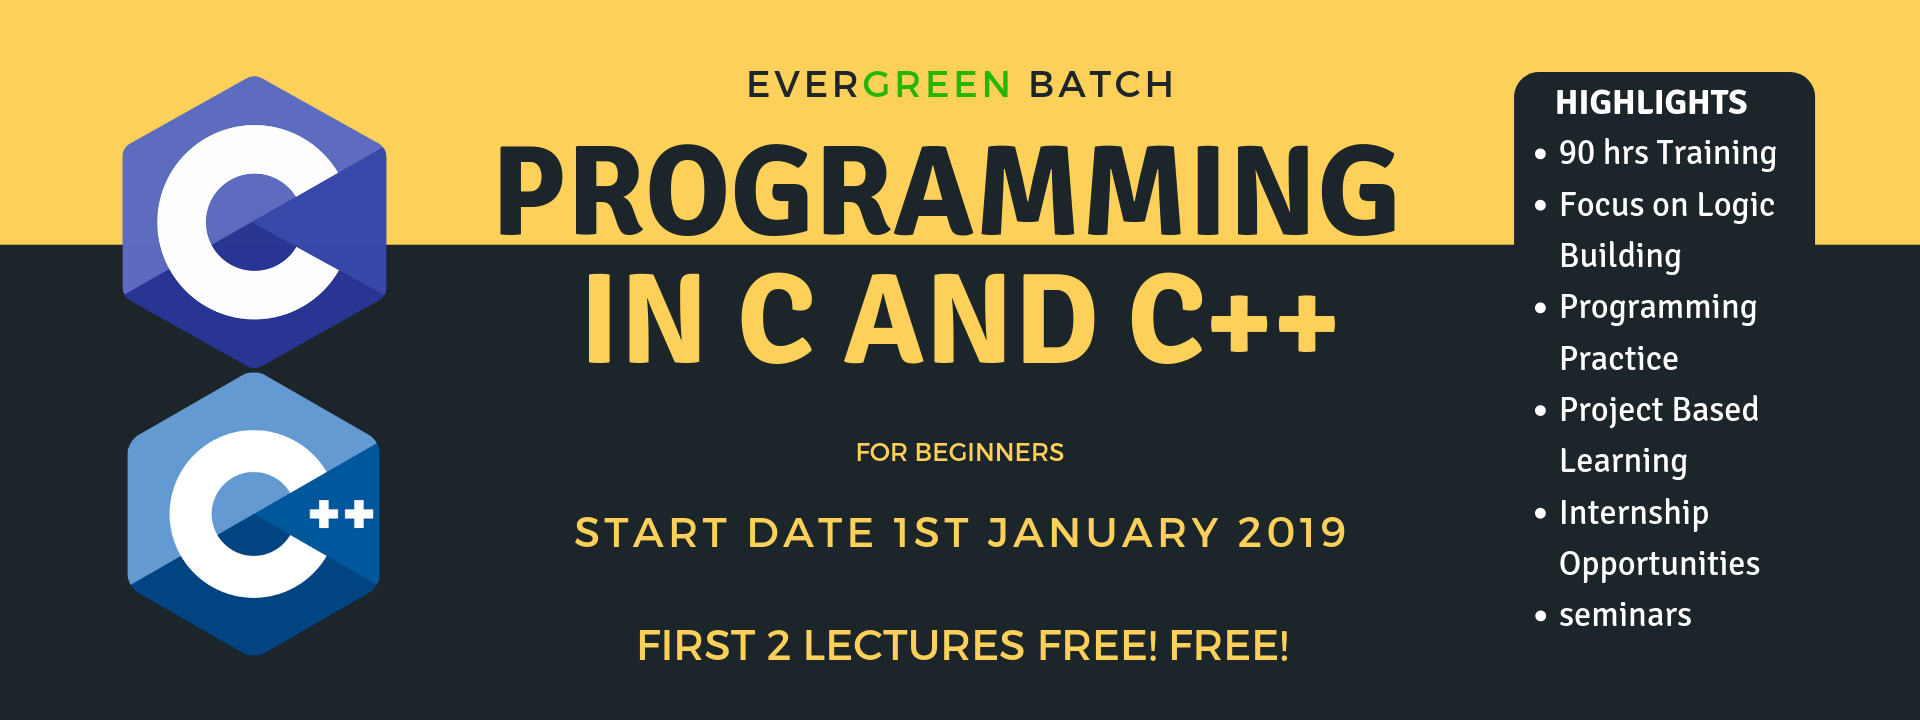
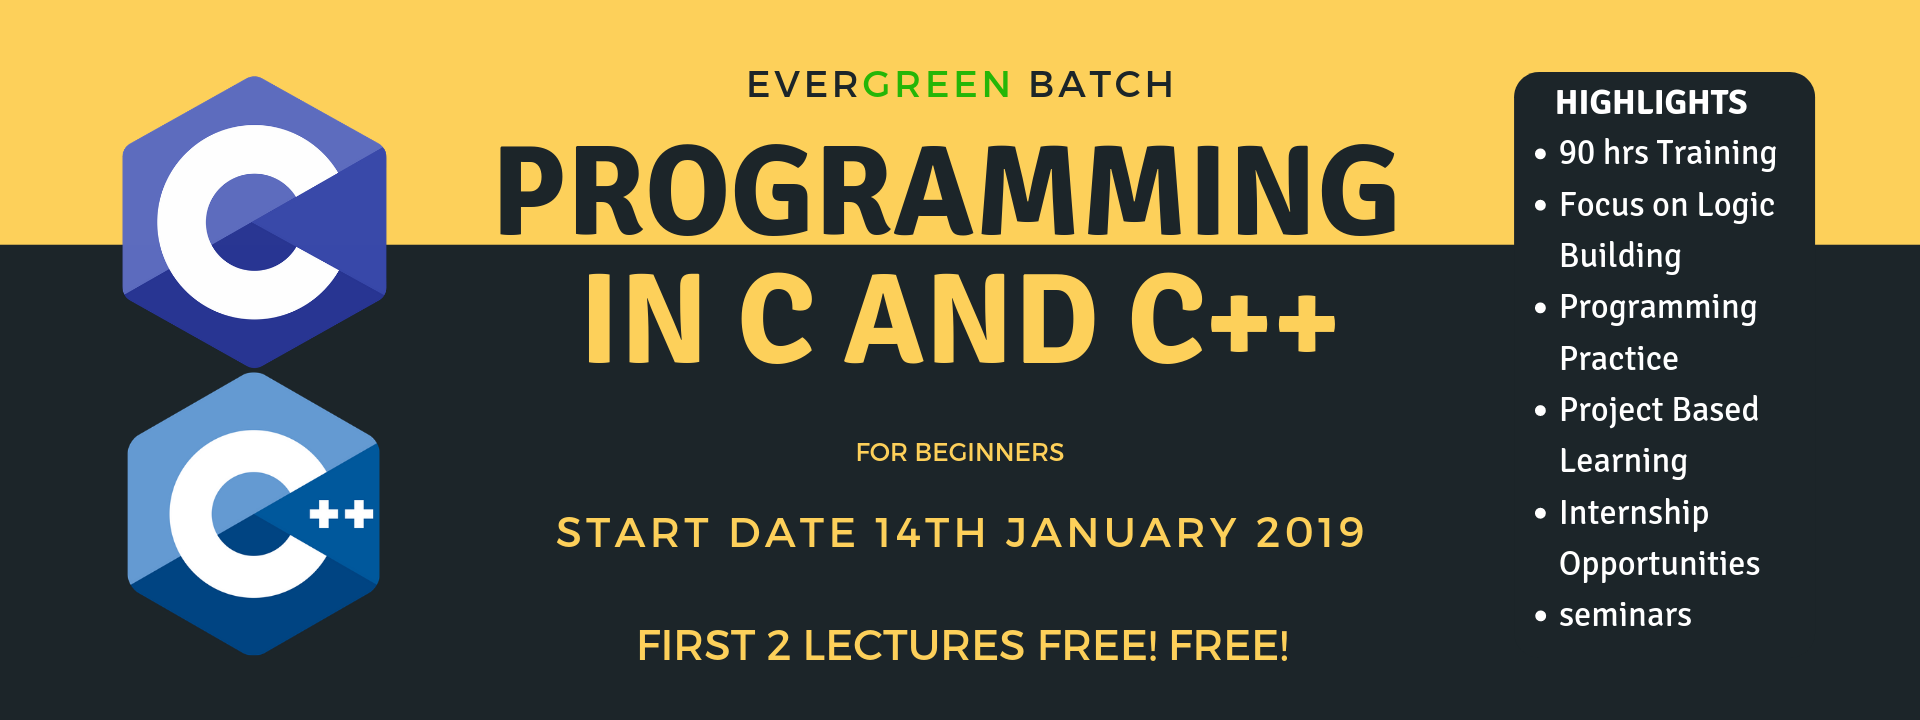
final edit

Changed region(s): [[0.2812, 0.7028, 0.7188, 0.7639]]

diff --git a/home/templates/home/index.html b/home/templates/home/index.html
@@ -23,7 +23,7 @@
     </div>
 </div>
 <div  class="announcement-line" id="announcementLine">
-    <marquee  direction="left" id="announcementLinetext"> Free seminar for third year students On campus placement preparation on 13th January 2019 (sunday)   |  New batch of Master Java starting from 1st January 2018  |  New batch of programming in C starting from 1st January 2018  </marquee>
+    <marquee  direction="left" id="announcementLinetext"> Free seminars for third year students On campus placement preparation in First week of January 2019 (Contact for more details)  |  New batch of Master Java starting from 14 January 2019  |  New batch of programming in C starting from 14 January 2019  </marquee>
 </div>
 
 <div class="students_watching">
@@ -63,13 +63,13 @@
             <div class="col-md-3">
                 <div data-scroll-reveal="enter from the bottom after 0.2s" class="jumbotron">
                   <h3 class="">PLACEMENT FOR SURE SYLLABUS</h3>
-                  <p><a class="btn  btn-lg" href="{%url 'home:lbwithcpp'%}" role="button">Download Now</a></p>
+                  <p><a class="btn  btn-lg" href="https://www.visionware.in/media/placement4sure.pdf" role="button">Download Now</a></p>
                 </div>
             </div>
             <div class="col-md-3">
                 <div data-scroll-reveal="enter from the bottom after 0.2s" class="jumbotron">
                   <h3 >CORE JAVA MASTER BATCH SYLLABUS</h3>
-                  <p><a class="btn  btn-lg" href="{%url 'home:lbwithcpp'%}" role="button">Download Now</a></p>
+                  <p><a class="btn  btn-lg" href="https://www.visionware.in/media/core_java.pdf" role="button">Download Now</a></p>
                 </div>
             </div>
             <div class="col-md-3">
